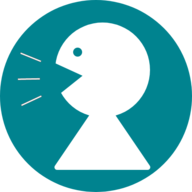
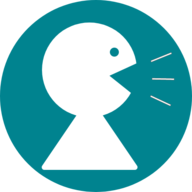
first commit

diff --git a/pages/_document.js b/pages/_document.js
@@ -8,7 +8,6 @@ export default function Document() {
                 <link rel="icon" type="image/png" sizes="32x32" href="/favicon-32x32.png" />
                 <link rel="icon" type="image/png" sizes="16x16" href="/favicon-16x16.png" />
                 <link rel="manifest" href="/site.webmanifest" />
-                <link rel="mask-icon" href="/safari-pinned-tab.svg" color="#5bbad5" />
                 <meta name="msapplication-TileColor" content="#da532c" />
                 <meta name="theme-color" content="#ffffff" />
             </Head>

diff --git a/components/header.jsx b/components/header.jsx
@@ -1,6 +1,6 @@
 import styles from '../styles/Header.module.css';
 import Head from 'next/head';
-import icon from '../public/talkup2.png';
+import icon from '../public/talkup.png';
 import Image from 'next/image';
 
 export default function Header({ title }) {
